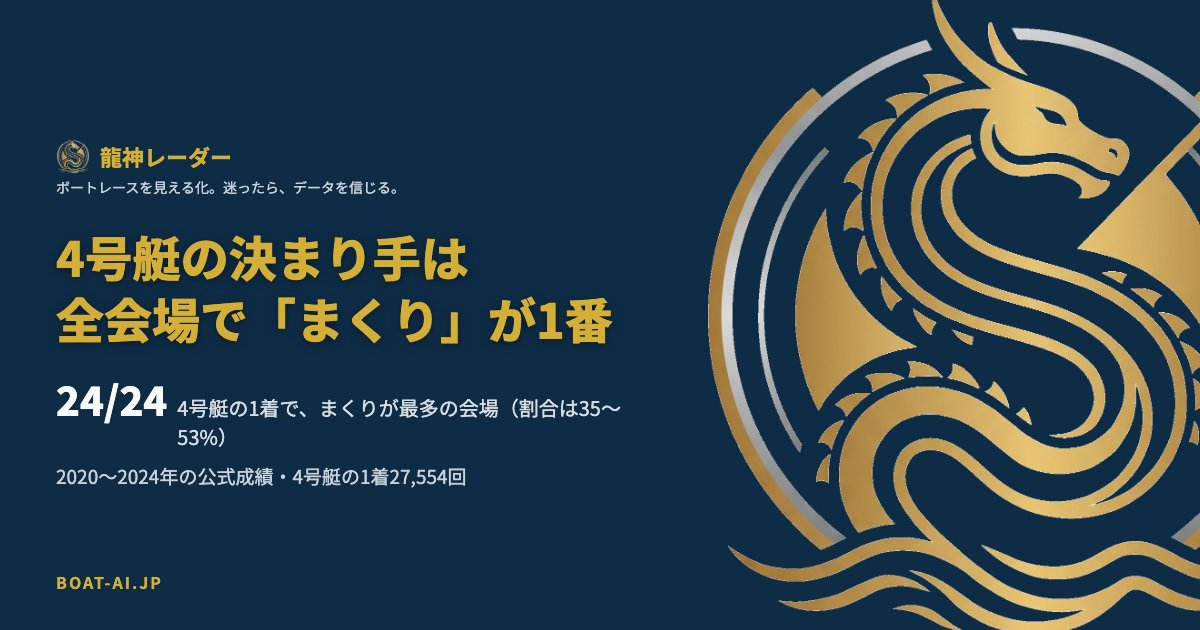
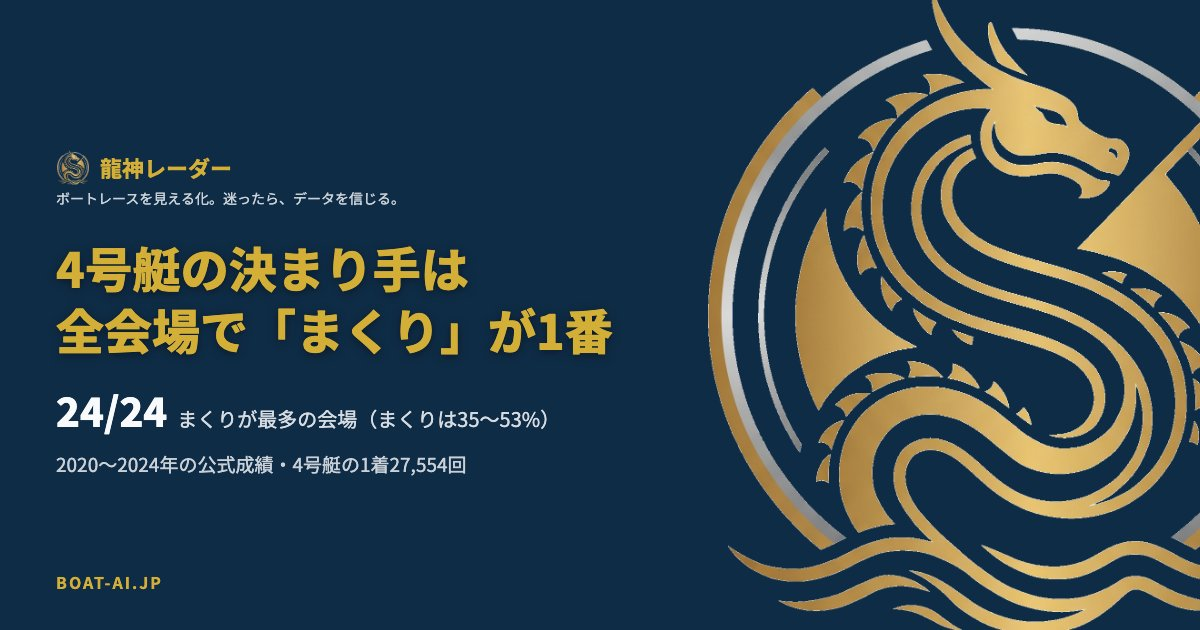
content: boat-number-technique-consistency の画面の説明を実装に合わせ（会場だけ選ぶ・90日固定）、浜名湖の僅差と会場の挙げ方を直し、4号艇を先に並べる

Changed region(s): [[0.0308, 0.3619, 0.5242, 0.573], [0.0308, 0.6032, 0.5242, 0.7841], [0.0308, 0.2111, 0.3392, 0.3317]]

diff --git a/public/blog/boat-number-technique-consistency.md b/public/blog/boat-number-technique-consistency.md
@@ -1,31 +1,16 @@
-# 4号艇の決まり手は24会場すべて「まくり」が1番、割合は35〜53%｜1号艇は全会場で逃げ9割超（公式成績5年）
+# ボートレース4号艇の決まり手は24会場すべて「まくり」が1番（35〜53%）｜1号艇は全会場で逃げ9割超
 
-4号艇が1着になったときの決まり手は、全国24会場のすべてで「まくり」が一番多く、まくりの割合は会場によって34.7%（三国）から52.7%（戸田）まででした。2020年1月〜2024年12月の5年間の公式成績で、4号艇の1着27,554回を数えた結果です。1号艇が1着になったときは、24会場すべてで「逃げ」が9割を超えました。
+4号艇が1着になったときの決まり手は、全国24会場のすべてで「まくり」が一番多く、まくりの割合は会場によって34.7%（三国）から52.7%（戸田）まででした。2020年1月〜2024年12月の5年間の公式成績で、4号艇の1着27,554回を集計した結果です。1号艇が1着になったときは、24会場すべてで「逃げ」が9割を超えました。
 
-決まり手は、1着になった艇がどう勝ったか（逃げ・差し・まくり・まくり差し・抜き・恵まれ）の区分です。今日のレースの会場の決まり手は[決まり手データ分析](/winning-technique?tab=technique)で、会場と艇番を選んで見られます。
+決まり手は、1着になった艇がどう勝ったか（逃げ・差し・まくり・まくり差し・抜き・恵まれ）の区分です。[決まり手データ分析](/winning-technique?tab=technique)で会場を選ぶと、過去90日の1〜6号艇の決まり手の割合が見られます。
 
 ![4号艇の決まり手は24会場すべてでまくりが1番。2020〜2024年の公式成績、4号艇の1着27,554回](/images/blog/boat-number-technique-consistency-2026-11-03.jpg)
 
-## 1号艇が1着のときは、24会場すべてで逃げが9割を超える
-
-1号艇が1着になった151,357回のうち、決まり手が逃げだったのは143,612回（94.9%）でした。会場ごとでも、24会場すべてで9割を超えています。
-
-| 会場 | 1号艇が1着のうち逃げ |
-|---|---|
-| 尼崎（最も高い） | 96.59%（6,623回中6,397回） |
-| 住之江 | 95.95%（6,809回中6,533回） |
-| 大村 | 95.85%（7,503回中7,192回） |
-| 平和島 | 93.23%（4,863回中4,534回） |
-| 戸田 | 92.93%（5,123回中4,761回） |
-| 江戸川（最も低い） | 91.85%（4,836回中4,442回） |
-
-逃げの次に多いのは抜き（1マークで先頭を取れず、その後に抜いて1着）で、江戸川では379回（7.84%）でした。江戸川・戸田・平和島の逃げの割合が低い理由と検定は、[江戸川の1号艇の逃げの割合の記事](/blog/edogawa-nige-technique-share)にあります。
-
 ## 4号艇が1着のときは、24会場すべてでまくりが1番
 
-4号艇が1着になった27,554回の決まり手は、まくり12,063回（43.8%）、まくり差し7,226回（26.2%）、差し5,350回（19.4%）、抜き2,341回（8.5%）、恵まれ418回（1.5%）、逃げ156回（0.6%）でした。会場ごとに並べると次のとおりです。
+4号艇が1着になった27,554回の決まり手は、まくり12,063回（43.8%）、まくり差し7,226回（26.2%）、差し5,350回（19.4%）、抜き2,341回（8.5%）、恵まれ418回（1.5%）、逃げ156回（0.6%）でした。会場ごとに並べると次のとおりです。割合の分母は、その会場で4号艇が1着になった回数です。
 
-| 会場 | 4号艇の1着 | まくり | まくり差し | 差し |
+| 会場 | 4号艇の1着（分母） | まくり | まくり差し | 差し |
 |---|---:|---:|---:|---:|
 | 戸田 | 1,673回 | 52.7% | 21.6% | 17.2% |
 | 常滑 | 1,184回 | 52.6% | 25.3% | 14.2% |
@@ -52,37 +37,59 @@
 | 津 | 973回 | 36.9% | 29.0% | 24.2% |
 | 三国 | 1,010回 | 34.7% | 29.4% | 24.7% |
 
-まくりの割合は、戸田・常滑・桐生で5割を超え、三国・津・浜名湖では37%台以下でした。三国と津は差しが24%台、浜名湖はまくり差しが33.5%と、まくり以外の勝ち方の割合が高い会場です。それでも、1番がまくりから入れ替わった会場はありません。1会場あたり900回以上あるので、35%と53%の差は件数による偶然の範囲を大きく超えています。
+まくりの割合は、戸田・常滑・桐生で5割を超え、びわこ・浜名湖・津・三国では38%未満でした。三国と津は差しが24%台、浜名湖はまくり差しが33.5%と、まくり以外の勝ち方の割合が高い会場です。1会場900回以上あるので、1会場の割合が偶然で動く幅は±1.6ポイントほどで、35%と53%の差はそれより大きく、会場による違いと読めます。
+
+1番がまくりから入れ替わった会場はありません。ただし浜名湖は、まくり37.4%とまくり差し33.5%の差が3.9ポイントで、5年の件数でもほぼ並んでいます。戸田で1号艇が負けたレースの1着の決まり手は、別の数え方として[戸田のまくりの記事](/blog/toda-losing-makuri-share)にまとめています。
+
+## 1号艇が1着のときは、24会場すべてで逃げが9割を超える
+
+1号艇が1着になった151,357回のうち、決まり手が逃げだったのは143,612回（94.9%）でした。会場ごとでも、24会場すべてで9割を超えています。逃げの割合が高い3会場と低い3会場です。
+
+| 会場 | 1号艇が1着のうち逃げ |
+|---|---|
+| 尼崎（最も高い） | 96.59%（6,623回中6,397回） |
+| 住之江 | 95.95%（6,809回中6,533回） |
+| 大村 | 95.85%（7,503回中7,192回） |
+| 平和島 | 93.23%（4,863回中4,534回） |
+| 戸田 | 92.93%（5,123回中4,761回） |
+| 江戸川（最も低い） | 91.85%（4,836回中4,442回） |
+
+江戸川では、逃げの次に抜き（1マークで先頭を取れず、その後に抜いて1着）が379回（7.84%）ありました。江戸川と戸田の比べと検定は、[江戸川の1号艇の逃げの割合の記事](/blog/edogawa-nige-technique-share)にあります。逃げの割合が低い理由は、まだ確かめられていません。
 
 ## 90日だけで見ると、1番の決まり手が会場で入れ替わって見える
 
-この記事の前の版は、過去90日の集計から「4号艇は会場で主役の決まり手が変わる」「4号艇のぶれは1号艇の5倍」と書いていました。5年の公式成績で見直すと、どちらも件数が少ないことによる見かけでした。
+過去90日の集計では、4号艇の1着の1番が差しやまくり差しになる会場が出ることがあります。5年の公式成績で見ると、これは件数が少ないことによる見かけです。
 
 - 90日では、4号艇の1着は1会場あたり60回前後です。60回の割合は、偶然だけで1会場ごとに±6ポイントほど動きます。まくりとまくり差し・差しの差が10〜20ポイントの会場では、90日の1番が入れ替わることがあります
-- 1号艇の1着は1会場あたり約320回あり、割合の動きは小さくなります。分母が5倍違う2つの割合の幅を比べても、会場の差の大きさは比べられません
+- 1号艇の1着は90日で1会場あたり約320回あり、割合の動きは小さくなります。1号艇と4号艇は分母が5倍ほど違うので、割合の幅をそのまま比べても、会場の差の大きさは比べられません
 
-4号艇の勝ち方を会場で比べるときは、1番の決まり手ではなく、まくりの割合が35%に近い会場か50%を超える会場かを見ます。
+分母の読み分けは[決まり手データの見方](/blog/winning-technique-analysis-guide)にもまとめています。
 
 ## 今日のレースで見る順番
 
-1. [決まり手データ分析](/winning-technique?tab=technique)で、今日の会場と4号艇を選び、まくり・まくり差し・差しの割合を見ます。画面の集計期間の件数も一緒に見て、件数が少ないときは上の5年の表と並べます。
-2. 1号艇は、どの会場でも1着なら逃げがほとんどです。1号艇は決まり手より、1着になるかどうか（会場の1号艇の1着率）を見ます。
-3. 4号艇は、まくりの割合が高い会場か、差し・まくり差しの割合も高い会場かで、1マークの攻め方の見込みを分けます。
+1. 4号艇は、上の5年の表で今日の会場のまくり・まくり差し・差しの割合を見ます。
+2. [決まり手データ分析](/winning-technique?tab=technique)で今日の会場を選び、4号艇の行で直近90日の割合を見ます。件数が60回前後と少ないので、5年の表から大きく離れていても、直近の傾向の目安として読みます。
+3. 4号艇が勝つとしたら、まくりの形が多い会場か、差し・まくり差しも多い会場かを分けて見ます。表は4号艇が1着になったときの内訳で、まくりに行って負けたレースは入っていません。
+4. 1号艇は、どの会場でも1着なら逃げがほとんどです。決まり手より、1着になるかどうか（会場の1号艇の1着率）を見ます。
 
 ## よくある質問
 
-### 集計の期間とデータは何ですか？
+### 4号艇が1着になるとき、一番多い決まり手は何ですか？
 
-2020年1月1日〜2024年12月31日の全国24会場の公式の競走成績です。結果が出たレースで、1着の艇の艇番と決まり手を数えました。1号艇の1着は151,357回、4号艇の1着は27,554回です。
+5年の公式成績では、24会場すべてでまくりが一番多く、全国では43.8%でした。次がまくり差し（26.2%）、差し（19.4%）です。
+
+### 4号艇のまくりの割合が高い会場はどこですか？
+
+戸田（52.7%）・常滑（52.6%）・桐生（50.6%）で5割を超えました。低いのは三国（34.7%）・津（36.9%）・浜名湖（37.4%）です。
 
 ### 決まり手データ分析の画面と数字が違うのはなぜですか？
 
-画面は選んだ期間（過去90日など）の集計で、この記事は5年の集計です。期間が短いほど件数が少なく、割合は大きく動きます。
+画面は過去90日の集計で、この記事は5年の集計です。90日は件数が少ないので、割合が大きく動きます。
 
 ### 4号艇の1着に「逃げ」があるのはなぜですか？
 
-艇番は4号艇でも、前付けなどで1コースに入って1着になれば、決まり手は逃げになります。5年で156回（0.6%）ありました。
+艇番は4号艇でも、前付けなどで1コースに入って1着になると、決まり手は逃げになります。5年で156回（0.6%）ありました。156回の進入コースの内訳は確かめていません。
 
 ## 数字の範囲と注意
 
-この記事の数字は2020年1月〜2024年12月の公式成績の集計で、艇番（出走表の番号）で数えています。本番で入ったコースで数えた値ではありません。過去の割合は、今日のレースの決まり手や着順を約束する数字ではありません。
+この記事の数字は、2020年1月1日〜2024年12月31日の全国24会場の公式の競走成績のうち、結果が出たレースを集計したものです。1着の艇の艇番と決まり手で分けていて、本番で入ったコースで分けた値ではありません。1号艇の1着は151,357回、4号艇の1着は27,554回です。過去の割合は、今日のレースの決まり手や着順を約束する数字ではありません。
